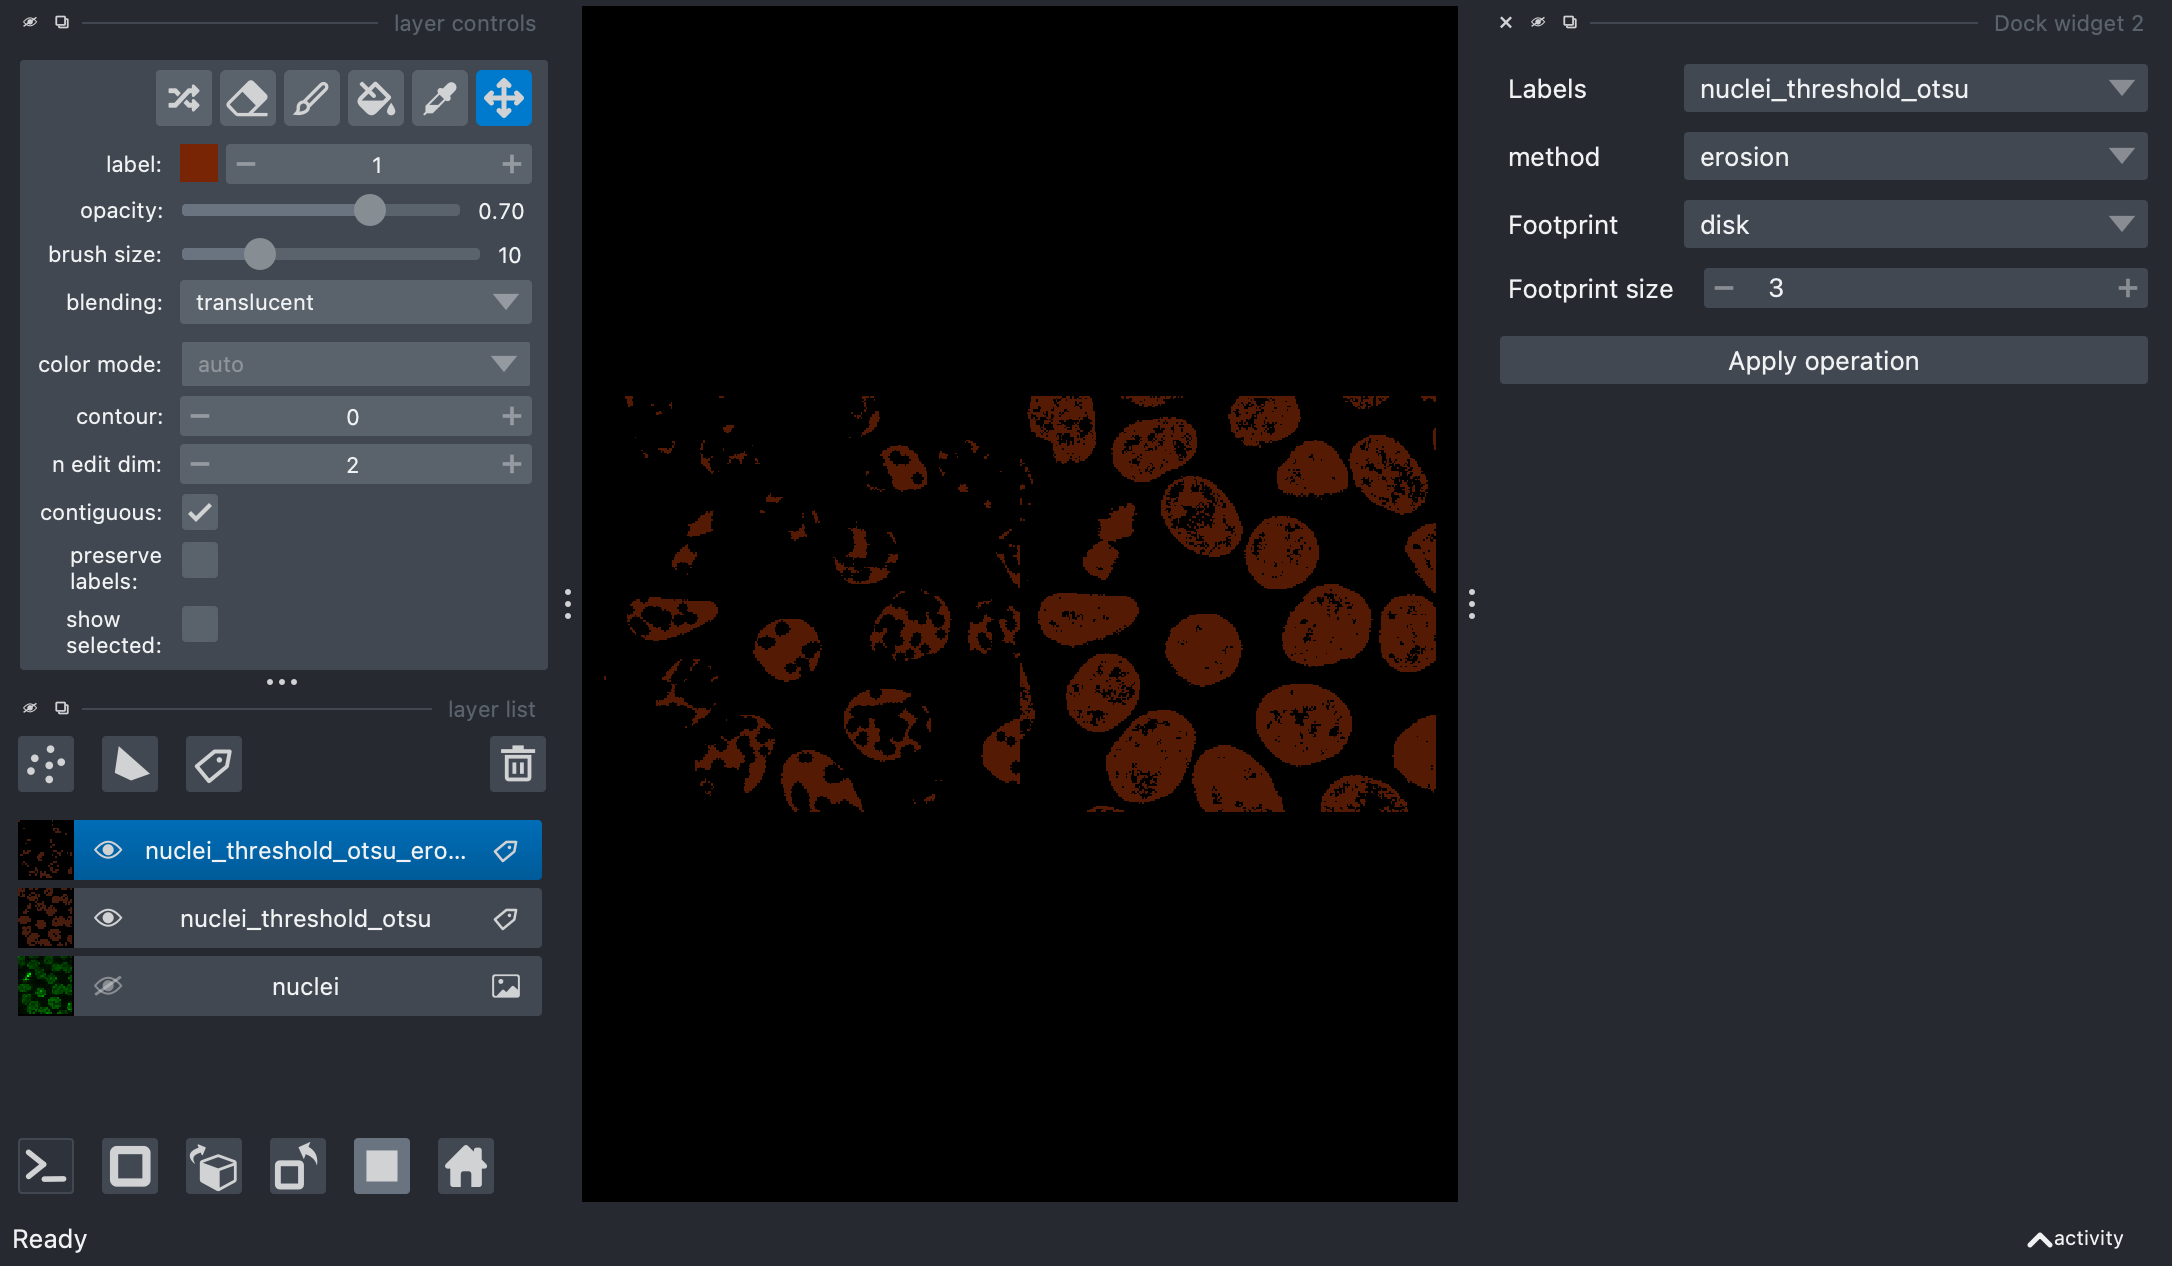
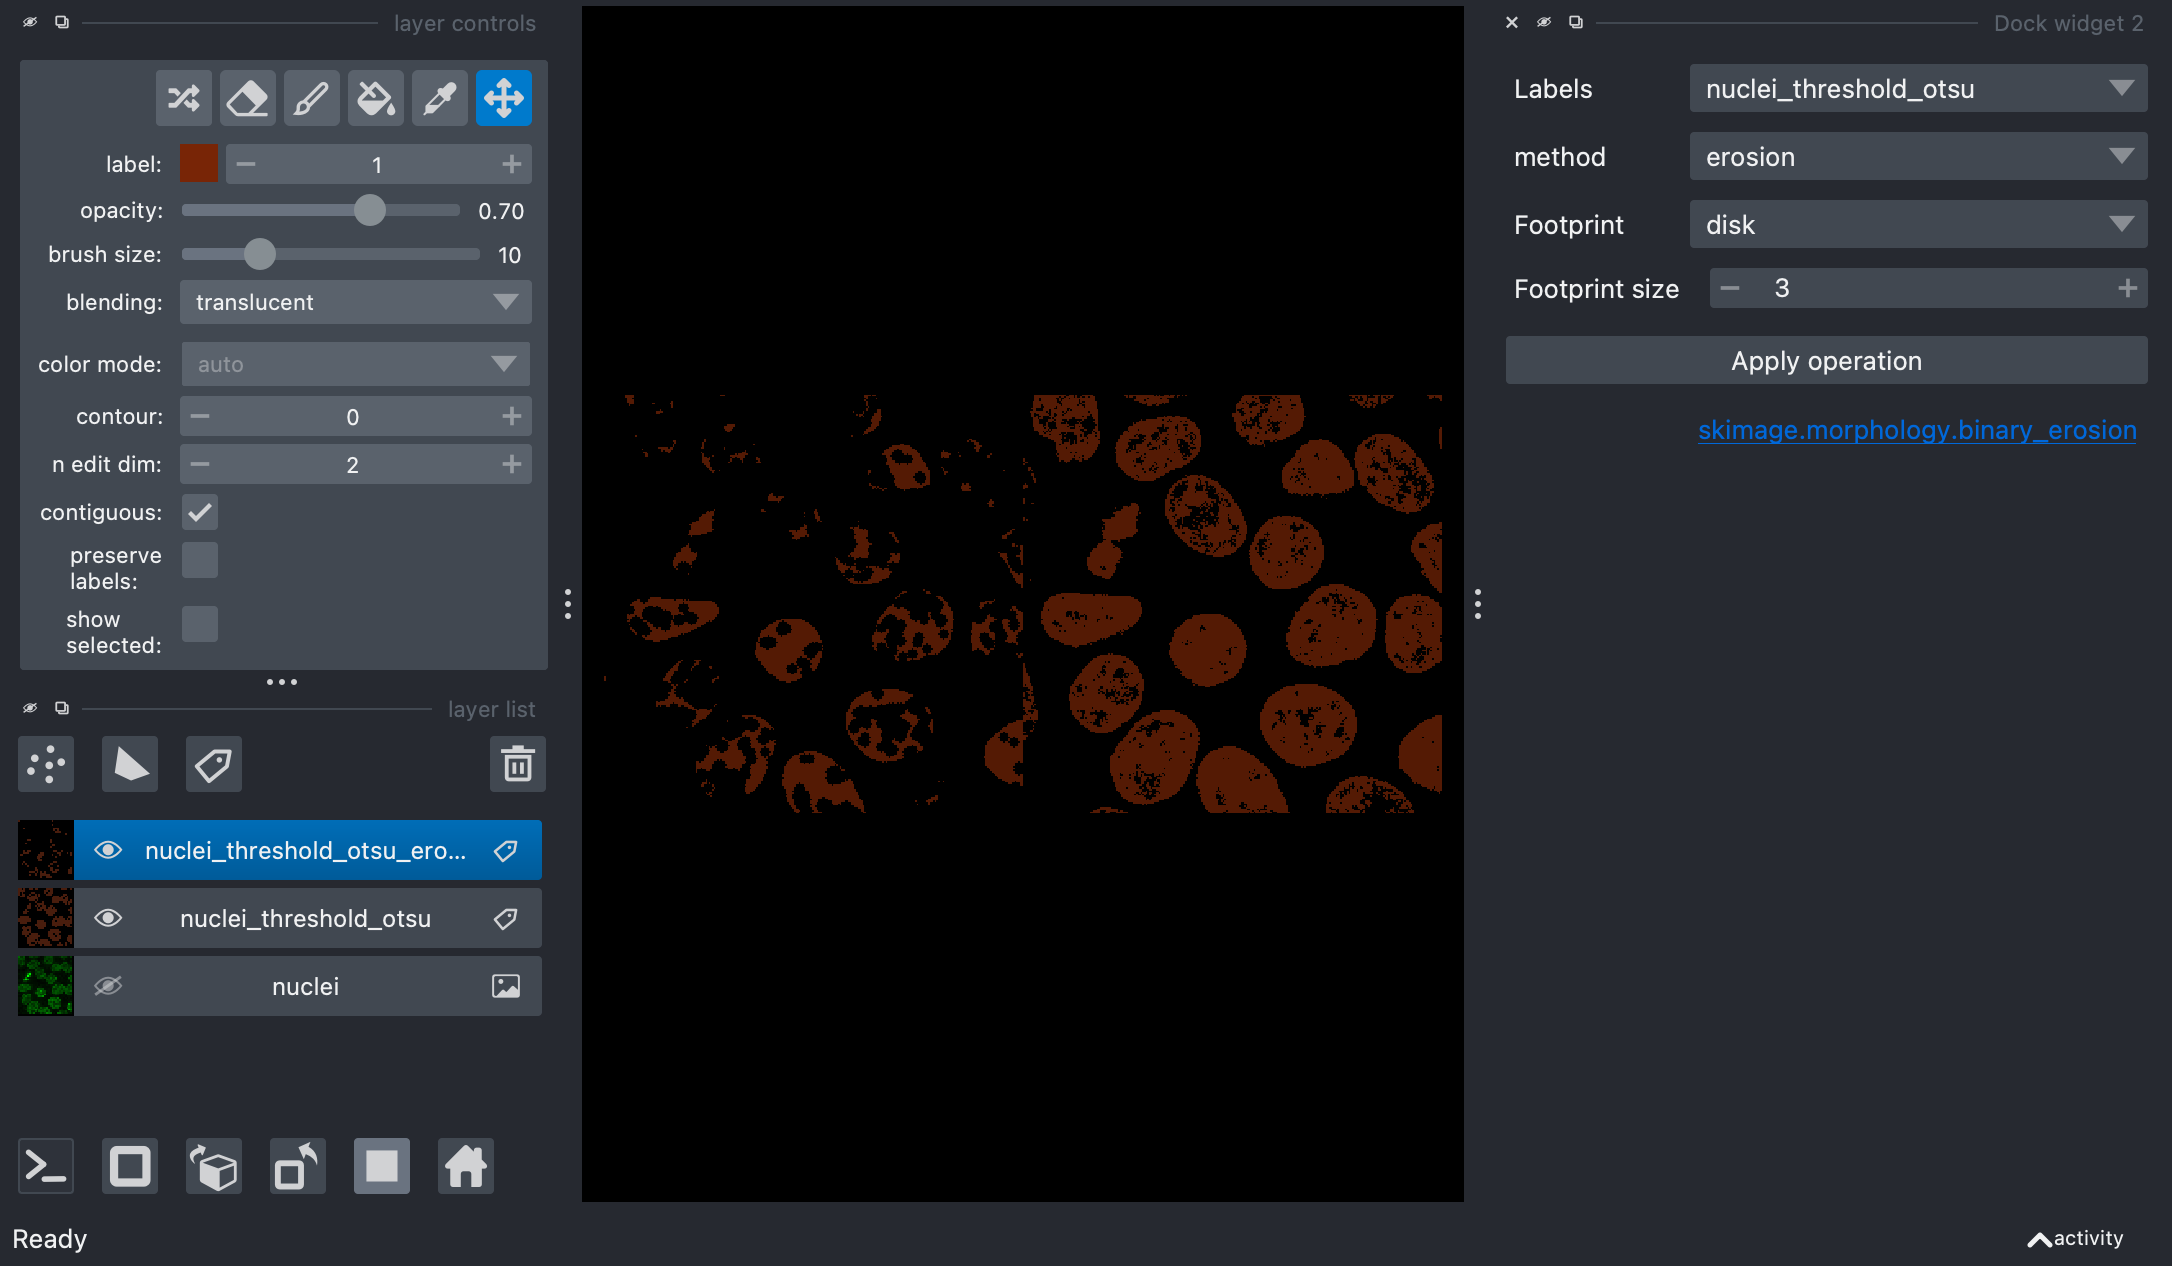
add links to skimage functions

diff --git a/src/napari_skimage/skimage_filter_widget.py b/src/napari_skimage/skimage_filter_widget.py
@@ -2,7 +2,8 @@ from typing import TYPE_CHECKING
 
 import numpy as np
 from magicgui import magic_factory
-from magicgui.widgets import Button, Container, create_widget
+from magicgui.widgets import Button, Container, create_widget, Label
+from qtpy.QtCore import Qt
 import skimage.filters as sf
 import skimage.morphology as sm
 from napari.layers import Image
@@ -12,10 +13,27 @@ import napari.types
 if TYPE_CHECKING:
     import napari
 
+"""For filters a widget is defined for each filter. The _on_init function is used to add a hyperlink to the
+documentation of the function that the widget is calling. For this to work properly, the widget function needs
+to be named "<skimage function name>_filter_widget".
+
+RankFilterWidget is a class that defines a widget for rank filters. The widget can be used for all rank filters.
+"""
+
+def _on_init(widget):
+    label_widget = Label(value='')
+    func_name = widget.label.split(' ')[0]
+    label_widget.value = f'<a href=\"https://scikit-image.org/docs/stable/api/skimage.filters.html#skimage.filters.{func_name}\">skimage.filters.{func_name}</a>'
+    label_widget.native.setTextFormat(Qt.RichText)
+    label_widget.native.setTextInteractionFlags(Qt.TextBrowserInteraction)
+    label_widget.native.setOpenExternalLinks(True)
+    widget.extend([label_widget])
+
 @magic_factory(
         image_layer={'label': 'Image'},
         mode={'choices': ['reflect', 'constant', 'nearest', 'mirror', 'wrap']},
-        call_button="Apply Farid filter"
+        call_button="Apply Farid filter",
+        widget_init=_on_init
         )
 def farid_filter_widget(
     image_layer: Image, mode='reflect') -> napari.types.LayerDataTuple:
@@ -27,7 +45,8 @@ def farid_filter_widget(
 @magic_factory(
         image_layer={'label': 'Image'},
         mode={'choices': ['reflect', 'constant', 'nearest', 'mirror', 'wrap']},
-        call_button="Apply Prewitt filter"
+        call_button="Apply Prewitt filter",
+        widget_init=_on_init
         )
 def prewitt_filter_widget(
     image_layer: Image, mode='reflect') -> napari.types.LayerDataTuple:
@@ -38,7 +57,8 @@ def prewitt_filter_widget(
 
 @magic_factory(
         image_layer={'label': 'Image'},
-        call_button="Apply Laplace filter"
+        call_button="Apply Laplace filter",
+        widget_init=_on_init
         )
 def laplace_filter_widget(
     image_layer: Image,
@@ -47,11 +67,12 @@ def laplace_filter_widget(
         sf.laplace(image_layer.data, ksize=ksize),
         {'name': f'{image_layer.name}_laplace'},
         'image')
-    
+
 @magic_factory(
         img_layer={'label': 'Image'},
         mode={'choices': ['reflect', 'constant', 'nearest', 'mirror', 'wrap']},
-        call_button="Apply Gaussian Filter"
+        call_button="Apply Gaussian Filter",
+        widget_init=_on_init
         )
 def gaussian_filter_widget(
     img_layer: Image,
@@ -67,7 +88,8 @@ def gaussian_filter_widget(
 @magic_factory(
         img_layer={'label': 'Image'},
         mode={'choices': ['reflect', 'constant', 'nearest', 'mirror', 'wrap']},
-        call_button="Apply Frangi Filter"
+        call_button="Apply Frangi Filter",
+        widget_init=_on_init
         )
 def frangi_filter_widget(
     img_layer: Image,
@@ -88,7 +110,8 @@ def frangi_filter_widget(
     mode={'choices': {'reflect', 'constant', 'nearest', 'mirror', 'wrap'}},
     footprint={'label': 'Footprint', 'choices': ['disk', 'square', 'diamond', 'star', 'octagon']},
     footprint_size={'label': 'Footprint size', 'max': 100, 'min': 1, 'step': 1},
-    call_button="Apply operation"
+    call_button="Apply operation",
+    widget_init=_on_init
 )
 def median_filter_widget(
     img_layer: Image,
@@ -106,7 +129,8 @@ def median_filter_widget(
 
 @magic_factory(
     img_layer={'label': 'Image'},
-    call_button="Apply operation"
+    call_button="Apply operation",
+    widget_init=_on_init
 )
 def butterworth_filter_widget(
     img_layer: Image,
@@ -157,6 +181,11 @@ class RankFilterWidget(Container):
         self.btn_apply = Button(text="Apply operation")
         self.btn_apply.clicked.connect(self._rank_filter_im)
 
+        self.link_label = Label(value='')
+        self.link_label.native.setTextFormat(Qt.RichText)
+        self.link_label.native.setTextInteractionFlags(Qt.TextBrowserInteraction)
+        self.link_label.native.setOpenExternalLinks(True)
+
         # append into/extend the container with your widgets
         self.extend(
             [
@@ -164,13 +193,15 @@ class RankFilterWidget(Container):
                 self.stat,
                 self.footprint,
                 self.footprint_size,
-                self.btn_apply
+                self.btn_apply,
+                self.link_label
             ]
         )
 
         self.stat.changed.connect(self._on_choose_stat)
+        self._on_choose_stat()
 
-    def _on_choose_stat(self):
+    def _on_choose_stat(self, event=None):
         if self.stat.value in ['mean_percentile', 'subtract_mean_percentile', 'sum_percentile',
                                 'gradient_percentile', 'enhance_contrast_percentile', 'autolevel_percentile']:
             if self.percentile not in self:
@@ -178,6 +209,9 @@ class RankFilterWidget(Container):
         else:
             if self.percentile in self:
                 self.remove(self.percentile)
+
+        self.link_label.value = f'<a href=\"https://scikit-image.org/docs/stable/api/skimage.filters.rank.html#skimage.filters.rank.{self.stat.value}\">skimage.filters.rank.{self.stat.value}</a>'
+        
 
     def _rank_filter_im(self):
         image_layer = self._image_layer_combo.value

diff --git a/src/napari_skimage/skimage_morphology_widget.py b/src/napari_skimage/skimage_morphology_widget.py
@@ -1,6 +1,8 @@
 from typing import TYPE_CHECKING
 
 from magicgui import magic_factory
+from magicgui.widgets import Label
+from qtpy.QtCore import Qt
 import skimage.morphology as sm
 from napari.layers import Image, Labels
 import napari.types
@@ -8,6 +10,12 @@ import napari.types
 
 if TYPE_CHECKING:
     import napari
+
+"""For morphological operations, two widgets are defined: one for binary images and one for grey scale 
+images. Options are provided to define the footprint shape and size. Links to skimage documentation are
+provided via the _on_init function which first checks if the widget is for binary or grey scale images
+and then creates the appropriate link.
+"""
 
 @magic_factory(
     label_layer={'label': 'Labels'},
@@ -19,6 +27,25 @@ def connected_components_widget(
         sm.label(label_layer.data),
         {'name': f'{label_layer.name}_labels'},
         'labels')
+
+def _on_init(widget):
+    label_widget = Label(value='')   
+
+    def get_func_name(w): 
+        if w.label.split(' ')[0] == 'binary':
+            func_name = f'binary_{w.method.value}'
+        else:
+            func_name = w.method.value
+        return func_name     
+    
+    func_name = get_func_name(widget)
+    label_widget.value = f'<a href=\"https://scikit-image.org/docs/stable/api/skimage.morphology.html#skimage.morphology.{func_name}\">skimage.morphology.{func_name}</a>'
+    label_widget.native.setTextFormat(Qt.RichText)
+    label_widget.native.setTextInteractionFlags(Qt.TextBrowserInteraction)
+    label_widget.native.setOpenExternalLinks(True)
+    widget.extend([label_widget])
+
+    widget.method.changed.connect(lambda x: setattr(label_widget, 'value', f'<a href=\"https://scikit-image.org/docs/stable/api/skimage.morphology.html#skimage.morphology.{get_func_name(widget)}\">skimage.morphology.{get_func_name(widget)}</a>'))
  
 @magic_factory(
     label_layer={'label': 'Labels'},
@@ -27,7 +54,8 @@ def connected_components_widget(
     footprint_size={'label': 'Footprint size', 'max': 100, 'min': 1, 'step': 1},
     # to add for skimage 0.23
     #mode = {'choices': ['min', 'max', 'ignore']},
-    call_button="Apply operation"
+    call_button="Apply operation",
+    widget_init=_on_init
 )
 def binary_morphology_widget(
     label_layer: Labels,
@@ -53,7 +81,8 @@ def binary_morphology_widget(
     footprint_size={'label': 'Footprint size', 'max': 100, 'min': 1, 'step': 1},
     # to add for skimage 0.23
     # mode = {'choices': ['reflect', 'constant', 'nearest0', 'mirror', 'wrap', 'max', 'min', 'ignore']},
-    call_button="Apply operation"
+    call_button="Apply operation",
+    widget_init=_on_init
 )
 def morphology_widget(
     label_layer: Image,

diff --git a/src/napari_skimage/skimage_restoration_widget.py b/src/napari_skimage/skimage_restoration_widget.py
@@ -2,6 +2,8 @@ from typing import TYPE_CHECKING
 
 import numpy as np
 from magicgui import magic_factory
+from magicgui.widgets import Label
+from qtpy.QtCore import Qt
 import skimage.restoration as sr
 from napari.layers import Image
 import napari.types
@@ -10,9 +12,27 @@ import napari.types
 if TYPE_CHECKING:
     import napari
 
+'''
+In this module, widgets for restoration methods are defined one by one. The _on_init function that can be used
+with the widget_init argument of @magic_factory adds a hyperlink to the documentation of the function that the
+widget is calling. For this to work properly, the widget function needs to be named
+"<skimage function name>_restoration_widget".
+'''
+
+def _on_init(widget):
+    label_widget = Label(value='')   
+    
+    func_name = '_'.join(widget.label.split(' ')[0:-2])
+    label_widget.value = f'<a href=\"https://scikit-image.org/docs/stable/api/skimage.restoration.html#skimage.restoration.{func_name}\">skimage.restoration.{func_name}</a>'
+    label_widget.native.setTextFormat(Qt.RichText)
+    label_widget.native.setTextInteractionFlags(Qt.TextBrowserInteraction)
+    label_widget.native.setOpenExternalLinks(True)
+    widget.extend([label_widget])
+
 @magic_factory(
         image_layer={'label': 'Image'},
-        call_button="Apply rolling ball"
+        call_button="Apply rolling ball",
+        widget_init=_on_init
         )
 def rolling_ball_restoration_widget(
     image_layer: Image, 
@@ -24,7 +44,8 @@ def rolling_ball_restoration_widget(
 
 @magic_factory(
         image_layer={'label': 'Image'},
-        call_button="Apply denoise nl means"
+        call_button="Apply denoise nl means",
+        widget_init=_on_init
         )
 def denoise_nl_means_restoration_widget(
     image_layer: Image, 

diff --git a/src/napari_skimage/skimage_threshold_widget.py b/src/napari_skimage/skimage_threshold_widget.py
@@ -1,6 +1,8 @@
 from typing import TYPE_CHECKING
 
 from magicgui import magic_factory
+from magicgui.widgets import Label
+from qtpy.QtCore import Qt
 import skimage.filters.thresholding as st
 from napari.layers import Image, Labels
 import napari.types
@@ -9,11 +11,27 @@ import napari.types
 if TYPE_CHECKING:
     import napari
 
+"""
+For thresholding, a single widget is defined that can be used for all thresholding methods. No options are available.
+"""
+
+def _on_init(widget):
+    label_widget = Label(value='')   
+    
+    func_name = widget.method.value
+    label_widget.value = f'<a href=\"https://scikit-image.org/docs/stable/api/skimage.filters.html#skimage.filters.threshold_{func_name}\">skimage.filters.threshold_{func_name}</a>'
+    label_widget.native.setTextFormat(Qt.RichText)
+    label_widget.native.setTextInteractionFlags(Qt.TextBrowserInteraction)
+    label_widget.native.setOpenExternalLinks(True)
+    widget.extend([label_widget])
+
+    widget.method.changed.connect(lambda x: setattr(label_widget, 'value', f'<a href=\"https://scikit-image.org/docs/stable/api/skimage.filters.html#skimage.filters.threshold_{x}\">skimage.filters.threshold_{x}</a>'))
     
 @magic_factory(
         img_layer={'label': 'Image'},
         method={'choices': ['otsu', 'li', 'mean', 'yen', 'sauvola']},
-        call_button="Apply Thresholding"
+        call_button="Apply Thresholding",
+        widget_init=_on_init
         )
 def threshold_widget(
     img_layer: Image,

diff --git a/README.md b/README.md
@@ -37,7 +37,7 @@ A set of classical filters: Gaussian, Prewitt, Laplace etc. as well as rank filt
 
 ![Gaussian filter](docs/gaussian.png)
 
-### Thresholdig
+### Thresholding
 A set of thresholding methods: Otsu, Li, Yen etc.
 ![Thresholding](docs/thresholding.png)
 
